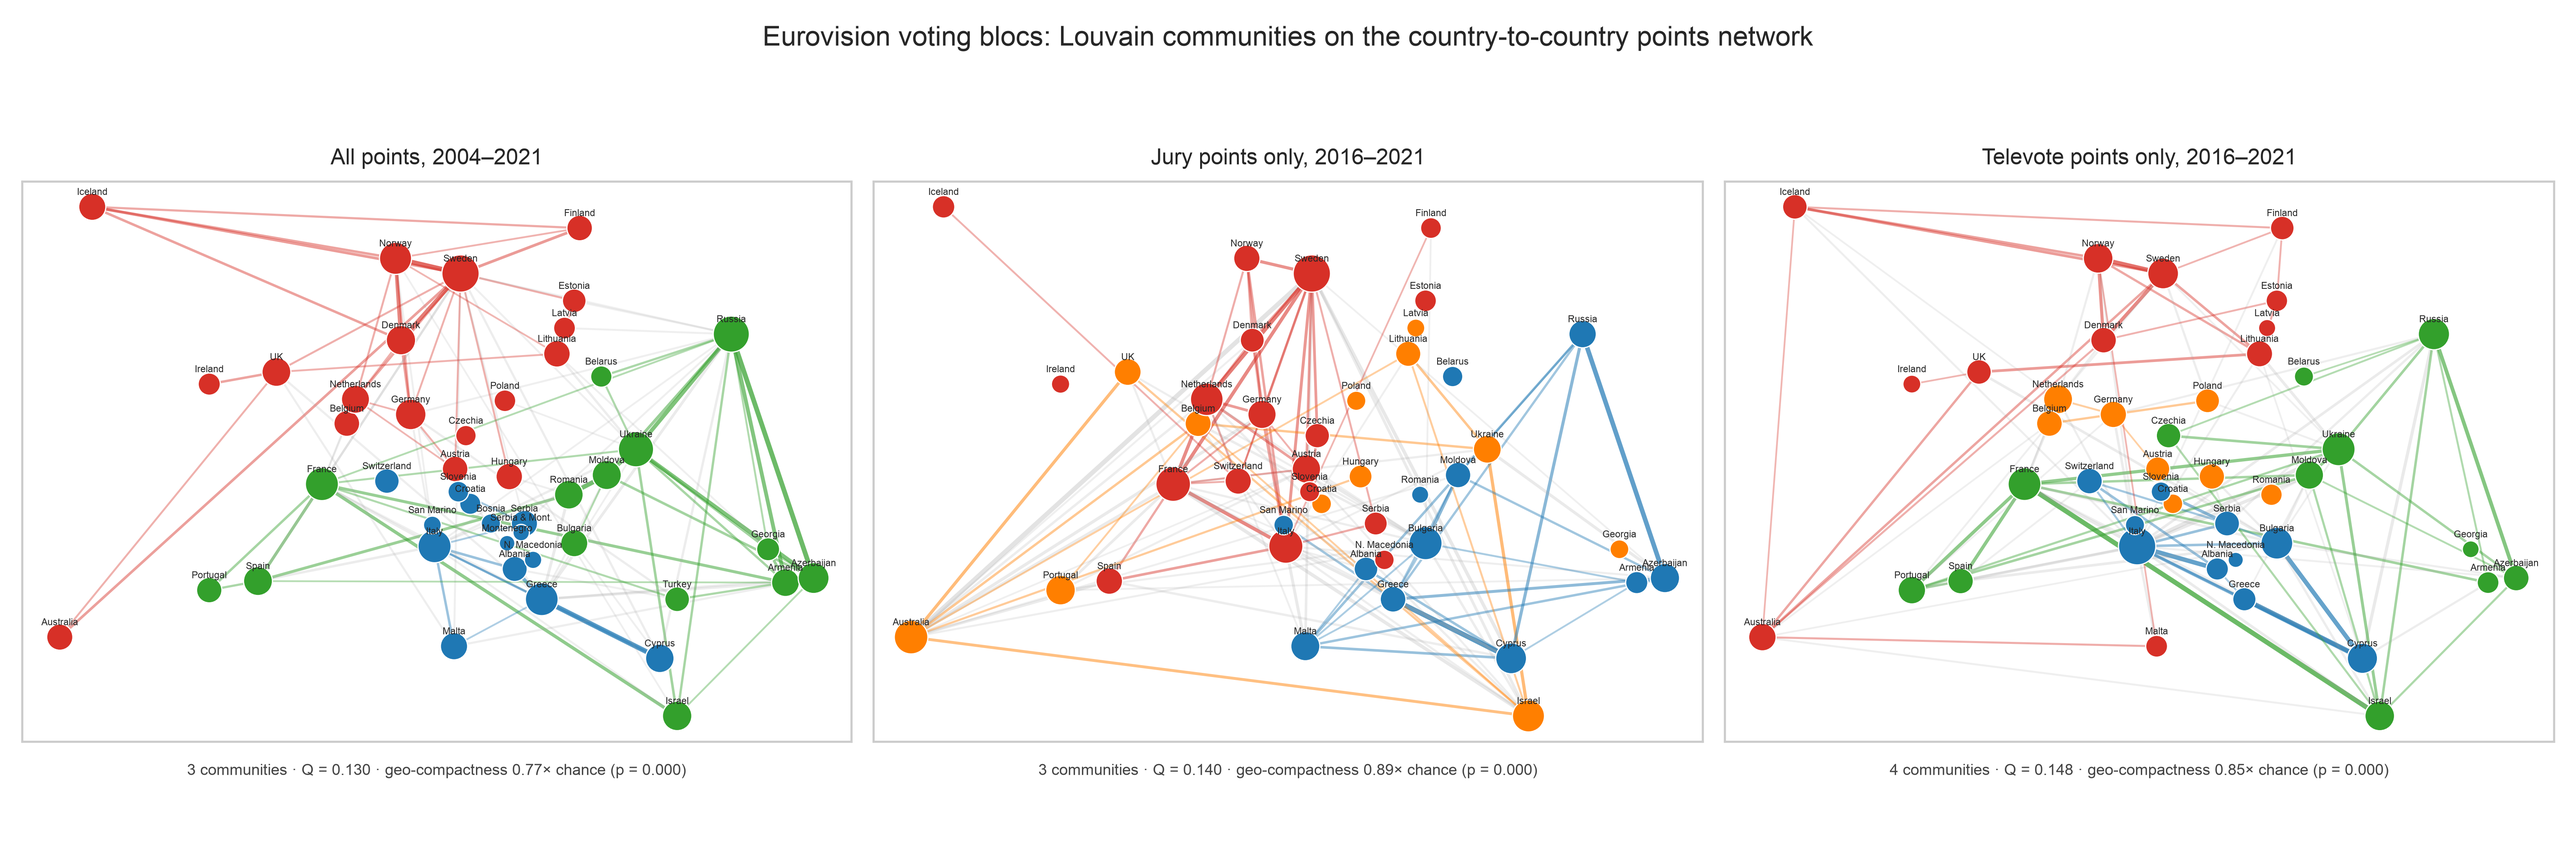
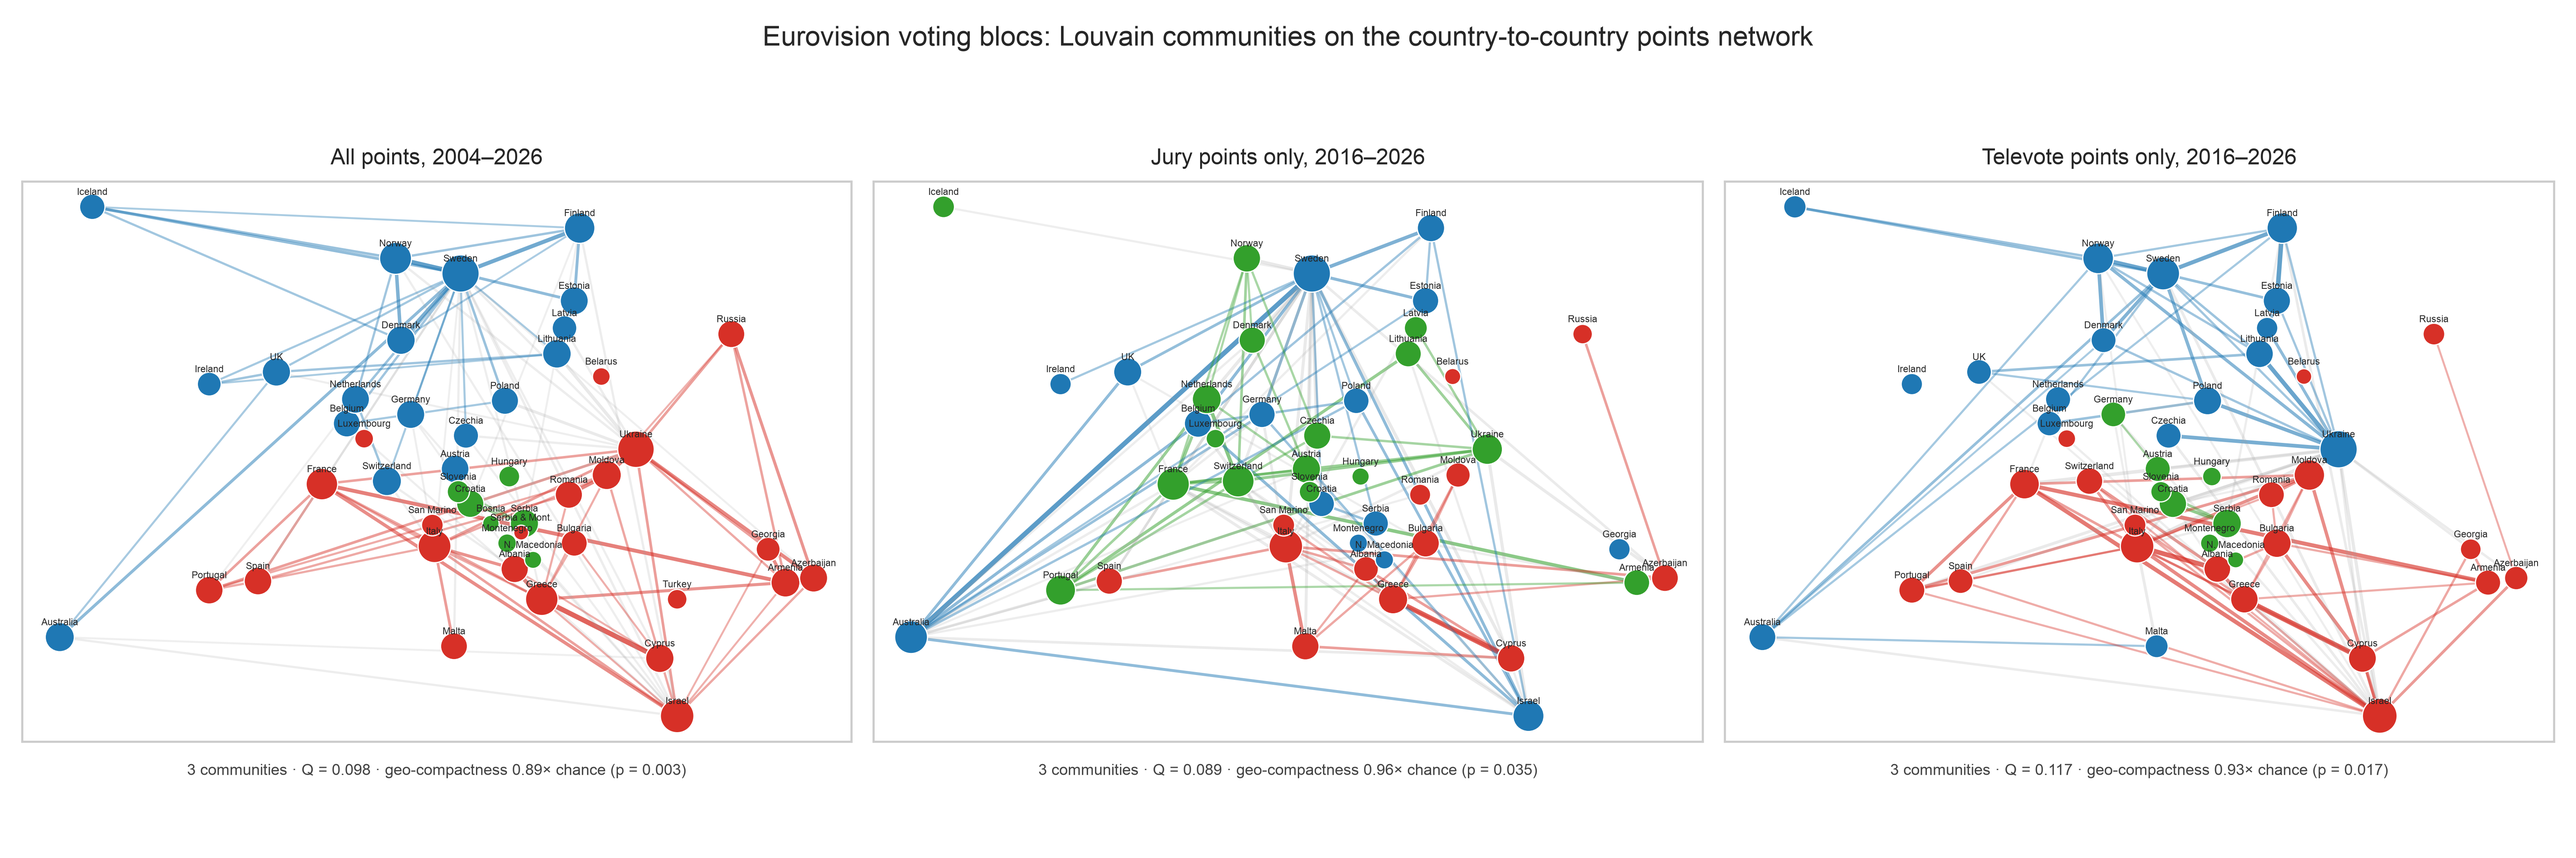
Extend voting_blocs_graph.py to the 2004-2026 window
Merges eurovision_2022-2026.csv into load_votes(), matching the extension
already applied to voting_blocs_similarity.py. Adds Luxembourg's map
coordinates (missing since it returned to the contest in 2025, in the new
data) and fixes the panel titles, which were hardcoded to "2021" instead of
reading FULL_WINDOW/SPLIT_WINDOW.

diff --git a/voting_blocs/voting_blocs_graph.py b/voting_blocs/voting_blocs_graph.py
@@ -19,13 +19,14 @@ from main import clean_data, load_data
 
 BASE_DIR = Path(__file__).resolve().parent
 DATA_PATH = BASE_DIR.parent / "eurovision_1957-2021.csv"  # shared repo-root dataset
+DATA_PATH_EXTENSION = BASE_DIR.parent / "eurovision_2022-2026.csv"  # 2022+ extension, same schema
 OUTPUT_DIR = BASE_DIR / "outputs"
 FIGURE_PATH = OUTPUT_DIR / "voting_blocs_network_comparison.png"
 COMMUNITIES_PATH = OUTPUT_DIR / "voting_blocs_communities.csv"
 REPORT_PATH = OUTPUT_DIR / "voting_blocs_graph_report.md"
 
-FULL_WINDOW = (2004, 2021)
-SPLIT_WINDOW = (2016, 2021)
+FULL_WINDOW = (2004, 2026)
+SPLIT_WINDOW = (2016, 2026)
 COMBINED_TYPE = "Points given"
 SEED = 7
 LOUVAIN_RESTARTS = 30
@@ -73,6 +74,7 @@ COUNTRY_COORDS = {
     "Italy": (12.6, 42.5),
     "Latvia": (24.6, 56.9),
     "Lithuania": (23.9, 55.2),
+    "Luxembourg": (6.1, 49.6),  # returned to the contest in 2025, in the 2022-2026 extension
     "Malta": (14.4, 35.9),
     "Moldova": (28.5, 47.2),
     "Montenegro": (19.3, 42.7),
@@ -120,7 +122,12 @@ COMMUNITY_COLORS = [
 
 
 def load_votes() -> pd.DataFrame:
-    df = clean_data(load_data(DATA_PATH))
+    # Merges the 1957-2021 file with the 2022+ extension before cleaning -
+    # mirrors voting_blocs_similarity.load_votes(), so both the graph and
+    # similarity/clustering sides of this project see the same 2004-2026
+    # history rather than one stopping at the original file's 2021 cutoff.
+    raw = pd.concat([load_data(DATA_PATH), load_data(DATA_PATH_EXTENSION)], ignore_index=True)
+    df = clean_data(raw)
     for column in ("From", "To"):
         df[column] = df[column].replace(NODE_ALIASES)
     return df
@@ -406,9 +413,9 @@ def plot_networks(
     subtitles: dict[str, str],
 ) -> None:
     titles = {
-        "full": "All points, 2004–2021",
-        "jury": "Jury points only, 2016–2021",
-        "televote": "Televote points only, 2016–2021",
+        "full": f"All points, {FULL_WINDOW[0]}–{FULL_WINDOW[1]}",
+        "jury": f"Jury points only, {SPLIT_WINDOW[0]}–{SPLIT_WINDOW[1]}",
+        "televote": f"Televote points only, {SPLIT_WINDOW[0]}–{SPLIT_WINDOW[1]}",
     }
     fig, axes = plt.subplots(1, 3, figsize=(21, 7.0))
     for ax, key in zip(axes, ("full", "jury", "televote")):

diff --git a/voting_blocs/outputs/voting_blocs_graph_report.md b/voting_blocs/outputs/voting_blocs_graph_report.md
@@ -18,9 +18,9 @@ edge *A → B* is the total number of points A gave B inside the window.
 
 | Graph | Window | Point types | Nodes | Directed edges | Density |
 | --- | --- | --- | --- | --- | --- |
-| `full` | 2004–2021 | all (combined + jury + televote) | 46 | 1578 | 0.88 |
-| `jury` | 2016–2021 | `Points given by the jury` | 42 | 879 | 0.70 |
-| `televote` | 2016–2021 | `Points given by televoters` | 42 | 884 | 0.69 |
+| `full` | 2004–2021 | all (combined + jury + televote) | 47 | 1856 | 0.94 |
+| `jury` | 2016–2021 | `Points given by the jury` | 44 | 1452 | 0.89 |
+| `televote` | 2016–2021 | `Points given by televoters` | 44 | 1430 | 0.88 |
 
 The jury/televote split is only reliably recorded from 2016 onward, so the two
 comparison graphs are restricted to 2016–2021 (2020 was cancelled, so five
@@ -63,27 +63,27 @@ between this pair", which is the quantity the hypothesis is about. It does throw
 away asymmetry (Cyprus→Greece is not the same as Greece→Cyprus), so it is a real
 loss — mitigated by the fact that the two variants agree almost perfectly on
 this data: ARI between directed and symmetrised Louvain on the `full` graph is
-**1.000** (modularity 0.1311 directed
-vs 0.1304 symmetrised). Since the answers coincide, the
+**0.712** (modularity 0.0982 directed
+vs 0.0981 symmetrised). Since the answers coincide, the
 symmetrised graph is used for the headline results because its modularity values
 are comparable across the three graphs and the visualisation is legible.
 
-**Girvan–Newman: tractable but inappropriate.** At 46 nodes
+**Girvan–Newman: tractable but inappropriate.** At 47 nodes
 GN is computationally fine — 12 levels of edge removal run in a few
 seconds. It is *statistically* wrong for this graph. GN removes high
 edge-betweenness edges, i.e. bridges, and a graph with density
-0.88 has no bridges: every removal just peels one more
+0.94 has no bridges: every removal just peels one more
 country off the giant component. Running it (with distance = 1/weight, since
 NetworkX treats the betweenness `weight` argument as a length, so heavy edges
 must be made *short*) produced exactly that degenerate cascade, best modularity
-**0.0014** with partition sizes [42, 1, 1, 1, 1] — versus
-0.1304 for Louvain. This is reported as a negative result rather
+**0.0007** with partition sizes [40, 1, 1, 1, 1, 1, 1, 1] — versus
+0.0981 for Louvain. This is reported as a negative result rather
 than hidden: GN is a topology-driven method and this network's structure is
 entirely in its weights.
 
 **Louvain is stochastic**, and on a graph this dense the seed matters: over
 30 restarts, Q on the `full` graph ranged from
-0.1230 to 0.1304, and low-scoring runs
+0.0928 to 0.0981, and low-scoring runs
 produced visibly worse partitions (e.g. splitting the Baltics off arbitrarily).
 Every Louvain result reported here is therefore the **best of
 30 restarts** (seeds 7–36) by
@@ -97,11 +97,11 @@ than a single run.
 
 | Graph | Communities | Modularity Q | Q range over restarts |
 | --- | --- | --- | --- |
-| `full` (symmetrised Louvain) | 3 | 0.1304 | 0.1230–0.1304 |
-| `full` (directed Louvain) | 3 | 0.1311 | — |
-| `full` (Girvan–Newman) | 5 | 0.0014 | — |
-| `jury` | 3 | 0.1404 | 0.1320–0.1404 |
-| `televote` | 4 | 0.1482 | 0.1362–0.1482 |
+| `full` (symmetrised Louvain) | 3 | 0.0981 | 0.0928–0.0981 |
+| `full` (directed Louvain) | 4 | 0.0982 | — |
+| `full` (Girvan–Newman) | 8 | 0.0007 | — |
+| `jury` | 3 | 0.0885 | 0.0780–0.0885 |
+| `televote` | 3 | 0.1167 | 0.1137–0.1167 |
 
 These Q values are low in absolute terms (0.3–0.7 is the usual "strong
 structure" band). That is expected and is itself a finding: on a near-complete
@@ -109,8 +109,8 @@ graph the null model already predicts a large share of every edge's weight, so
 even a genuinely meaningful partition cannot score highly. The values are used
 comparatively, not as an absolute claim of strong modular structure.
 
-Crucially, **jury Q (0.1404) and televote Q
-(0.1482) are almost identical** — modularity alone cannot tell
+Crucially, **jury Q (0.0885) and televote Q
+(0.1167) are almost identical** — modularity alone cannot tell
 these two apart. The difference is not in *how much* structure there is but in
 *what the structure is made of*, which needs the geographic test below.
 
@@ -126,15 +126,15 @@ share of permutations at least as compact as observed. Australia is excluded
 
 | Graph | Mean within-community distance | Expected under random labels | Ratio | p |
 | --- | --- | --- | --- | --- |
-| `full` | 1299 km | 1692 km | 0.768 | 0.0000 |
-| `jury` | 1537 km | 1736 km | 0.886 | 0.0000 |
-| `televote` | 1482 km | 1737 km | 0.853 | 0.0000 |
+| `full` | 1498 km | 1681 km | 0.891 | 0.0025 |
+| `jury` | 1635 km | 1705 km | 0.959 | 0.0355 |
+| `televote` | 1590 km | 1706 km | 0.932 | 0.0170 |
 
-The televote partition is the geographically compact one: its communities average 1482 km internally, 15% tighter than a random relabelling (p = 0.0000). The jury partition sits at 1537 km, only 11% tighter than chance (p = 0.0000). In excess-compactness terms the televote signal is 1.3× the jury signal.
+The televote partition is the geographically compact one: its communities average 1590 km internally, 7% tighter than a random relabelling (p = 0.0170). The jury partition sits at 1635 km, only 4% tighter than chance (p = 0.0355). In excess-compactness terms the televote signal is 1.7× the jury signal.
 
-Agreement between the two partitions on the 42 countries
-present in both: ARI **0.040**, NMI
-**0.136** — they are related but far from the same
+Agreement between the two partitions on the 44 countries
+present in both: ARI **0.183**, NMI
+**0.241** — they are related but far from the same
 partition.
 
 Community ids are matched across the three graphs by maximum member overlap so
@@ -143,42 +143,40 @@ a graph with fewer communities therefore skips an id.
 
 ### Televote communities (2016–2021)
 
-- **Community 0** (12): Australia, Denmark, Estonia, Finland, Iceland, Ireland, Latvia, Lithuania, Malta, Norway, Sweden, United Kingdom
-- **Community 1** (10): Albania, Bulgaria, Cyprus, Greece, Italy, North Macedonia, San Marino, Serbia, Slovenia, Switzerland
-- **Community 2** (12): Armenia, Azerbaijan, Belarus, Czech Republic, France, Georgia, Israel, Moldova, Portugal, Russia, Spain, Ukraine
-- **Community 3** (8): Austria, Belgium, Croatia, Germany, Hungary, Poland, Romania, The Netherlands
+- **Community 0** (19): Albania, Armenia, Azerbaijan, Belarus, Bulgaria, Cyprus, France, Georgia, Greece, Israel, Italy, Luxembourg, Moldova, Portugal, Romania, Russia, San Marino, Spain, Switzerland
+- **Community 1** (17): Australia, Belgium, Czech Republic, Denmark, Estonia, Finland, Iceland, Ireland, Latvia, Lithuania, Malta, Norway, Poland, Sweden, The Netherlands, Ukraine, United Kingdom
+- **Community 2** (8): Austria, Croatia, Germany, Hungary, Montenegro, North Macedonia, Serbia, Slovenia
 
 ### Jury communities (2016–2021)
 
-- **Community 0** (18): Austria, Czech Republic, Denmark, Estonia, Finland, France, Germany, Iceland, Ireland, Italy, North Macedonia, Norway, Serbia, Slovenia, Spain, Sweden, Switzerland, The Netherlands
-- **Community 1** (12): Albania, Armenia, Azerbaijan, Belarus, Bulgaria, Cyprus, Greece, Malta, Moldova, Romania, Russia, San Marino
-- **Community 3** (12): Australia, Belgium, Croatia, Georgia, Hungary, Israel, Latvia, Lithuania, Poland, Portugal, Ukraine, United Kingdom
+- **Community 0** (13): Albania, Azerbaijan, Belarus, Bulgaria, Cyprus, Greece, Italy, Malta, Moldova, Romania, Russia, San Marino, Spain
+- **Community 1** (15): Australia, Belgium, Croatia, Estonia, Finland, Georgia, Germany, Ireland, Israel, Montenegro, North Macedonia, Poland, Serbia, Sweden, United Kingdom
+- **Community 2** (16): Armenia, Austria, Czech Republic, Denmark, France, Hungary, Iceland, Latvia, Lithuania, Luxembourg, Norway, Portugal, Slovenia, Switzerland, The Netherlands, Ukraine
 
 ### Where the two partitions disagree
 
 Rows are televote communities, columns jury communities; each cell counts
 countries. A clean diagonal would mean the two agree.
 
-| Televote \ Jury | 0 | 1 | 3 |
+| Televote \ Jury | 0 | 1 | 2 |
 | --- | --- | --- | --- |
-| 0 | 7 | 1 | 4 |
-| 1 | 5 | 5 | 0 |
-| 2 | 3 | 5 | 4 |
-| 3 | 3 | 1 | 4 |
+| 0 | 12 | 2 | 5 |
+| 1 | 1 | 8 | 8 |
+| 2 | 0 | 5 | 3 |
 
 The countries whose community becomes most geographically dispersed when moving
 from televote to jury — i.e. the clearest individual cases of the jury breaking
 up a geographic bloc:
 
-- **North Macedonia** — +1039 km (649 km to its televote community, 1688 km to its jury community)
-- **Serbia** — +817 km (665 km to its televote community, 1482 km to its jury community)
-- **San Marino** — +799 km (802 km to its televote community, 1601 km to its jury community)
-- **Belgium** — +766 km (889 km to its televote community, 1655 km to its jury community)
-- **Croatia** — +705 km (716 km to its televote community, 1421 km to its jury community)
-- **Hungary** — +634 km (693 km to its televote community, 1327 km to its jury community)
+- **Montenegro** — +926 km (522 km to its televote community, 1448 km to its jury community)
+- **Croatia** — +925 km (422 km to its televote community, 1347 km to its jury community)
+- **Serbia** — +889 km (506 km to its televote community, 1395 km to its jury community)
+- **North Macedonia** — +866 km (680 km to its televote community, 1546 km to its jury community)
+- **Armenia** — +792 km (2194 km to its televote community, 2986 km to its jury community)
+- **Hungary** — +787 km (484 km to its televote community, 1271 km to its jury community)
 
-Concretely, in the televote graph the tightest community is Austria, Belgium, Croatia, Germany, Hungary, Poland, Romania, The Netherlands — a block of mutual neighbours averaging only 780 km between members. The jury graph
-has no comparable equivalent: its most dispersed community groups Australia, Belgium, Croatia, Georgia, Hungary, Israel, Latvia, Lithuania, Poland, Portugal, Ukraine, United Kingdom, averaging 1837 km between members — a set that spans the whole map and cannot be read as a neighbourhood.
+Concretely, in the televote graph the tightest community is Austria, Croatia, Germany, Hungary, Montenegro, North Macedonia, Serbia, Slovenia — a block of mutual neighbours averaging only 559 km between members. The jury graph
+has no comparable equivalent: its most dispersed community groups Australia, Belgium, Croatia, Estonia, Finland, Georgia, Germany, Ireland, Israel, Montenegro, North Macedonia, Poland, Serbia, Sweden, United Kingdom, averaging 1739 km between members — a set that spans the whole map and cannot be read as a neighbourhood.
 
 The interpretation, in terms of the project's central question: **the televote
 carries the geography/diaspora signal and the jury largely does not.** Public
@@ -204,8 +202,8 @@ five contests, so the jury graph rests on less data than the `full` graph.
 Raw point totals reward countries that qualify for many finals. Re-running the
 whole pipeline with edge weight = *points per shared contest* (dividing by the
 number of years in which the pair could actually vote for each other) gives
-4 communities on the `full` graph with ARI
-**0.255** against the headline partition. The partitions differ noticeably, so part of the raw-total structure does reflect how often countries reached the final; the jury-vs-televote contrast in section 4 is unaffected because both graphs cover the same five contests and the same countries.
+3 communities on the `full` graph with ARI
+**0.555** against the headline partition. The two partitions largely agree, so the headline blocs are not an artefact of unequal qualification rates.
 
 ## 6. Outputs
 
@@ -220,6 +218,6 @@ number of years in which the pair could actually vote for each other) gives
 
 ### Full-graph communities (2004–2021)
 
-- **Community 0** (18): Australia, Austria, Belgium, Czech Republic, Denmark, Estonia, Finland, Germany, Hungary, Iceland, Ireland, Latvia, Lithuania, Norway, Poland, Sweden, The Netherlands, United Kingdom
-- **Community 1** (14): Albania, Bosnia and Herzegovina, Croatia, Cyprus, Greece, Italy, Malta, Montenegro, North Macedonia, San Marino, Serbia, Serbia and Montenegro, Slovenia, Switzerland
-- **Community 2** (14): Armenia, Azerbaijan, Belarus, Bulgaria, France, Georgia, Israel, Moldova, Portugal, Romania, Russia, Spain, Turkey, Ukraine
+- **Community 0** (22): Albania, Armenia, Azerbaijan, Belarus, Bulgaria, Cyprus, France, Georgia, Greece, Israel, Italy, Luxembourg, Malta, Moldova, Portugal, Romania, Russia, San Marino, Serbia and Montenegro, Spain, Turkey, Ukraine
+- **Community 1** (18): Australia, Austria, Belgium, Czech Republic, Denmark, Estonia, Finland, Germany, Iceland, Ireland, Latvia, Lithuania, Norway, Poland, Sweden, Switzerland, The Netherlands, United Kingdom
+- **Community 2** (7): Bosnia and Herzegovina, Croatia, Hungary, Montenegro, North Macedonia, Serbia, Slovenia
